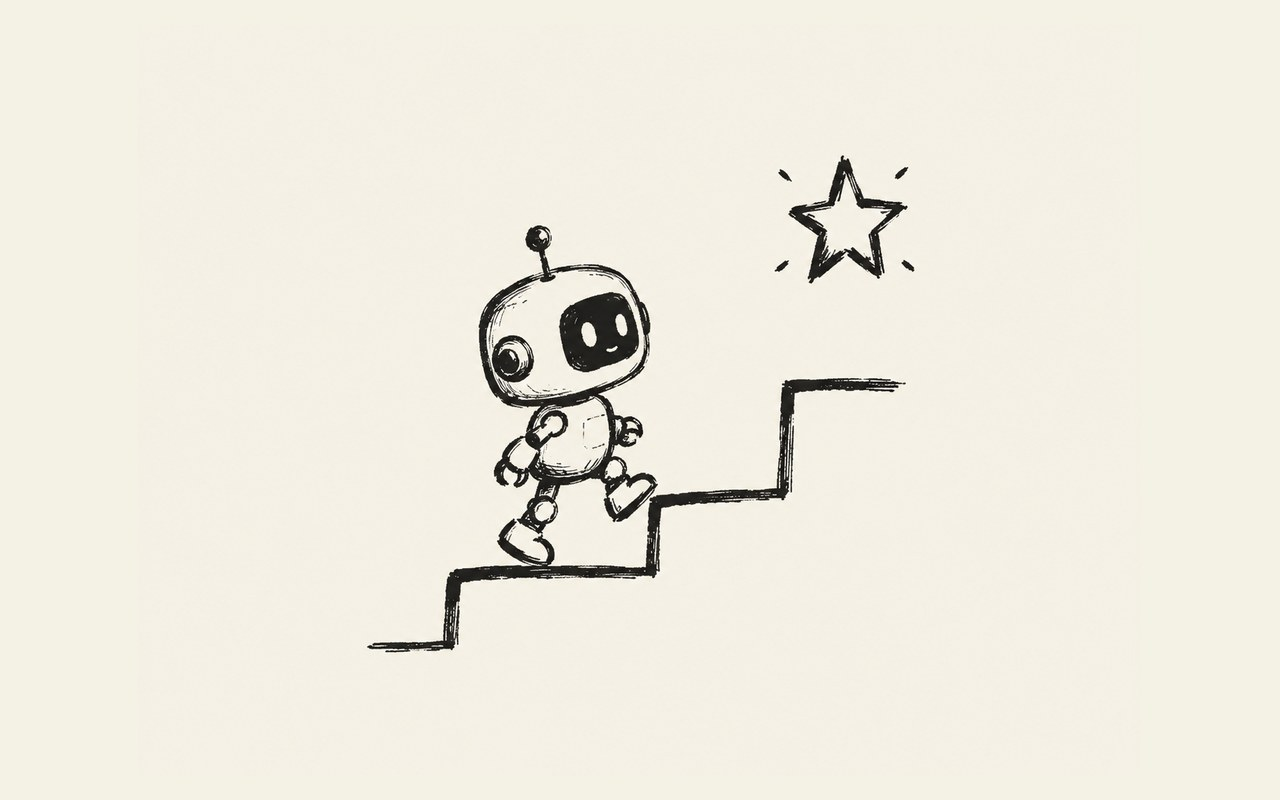
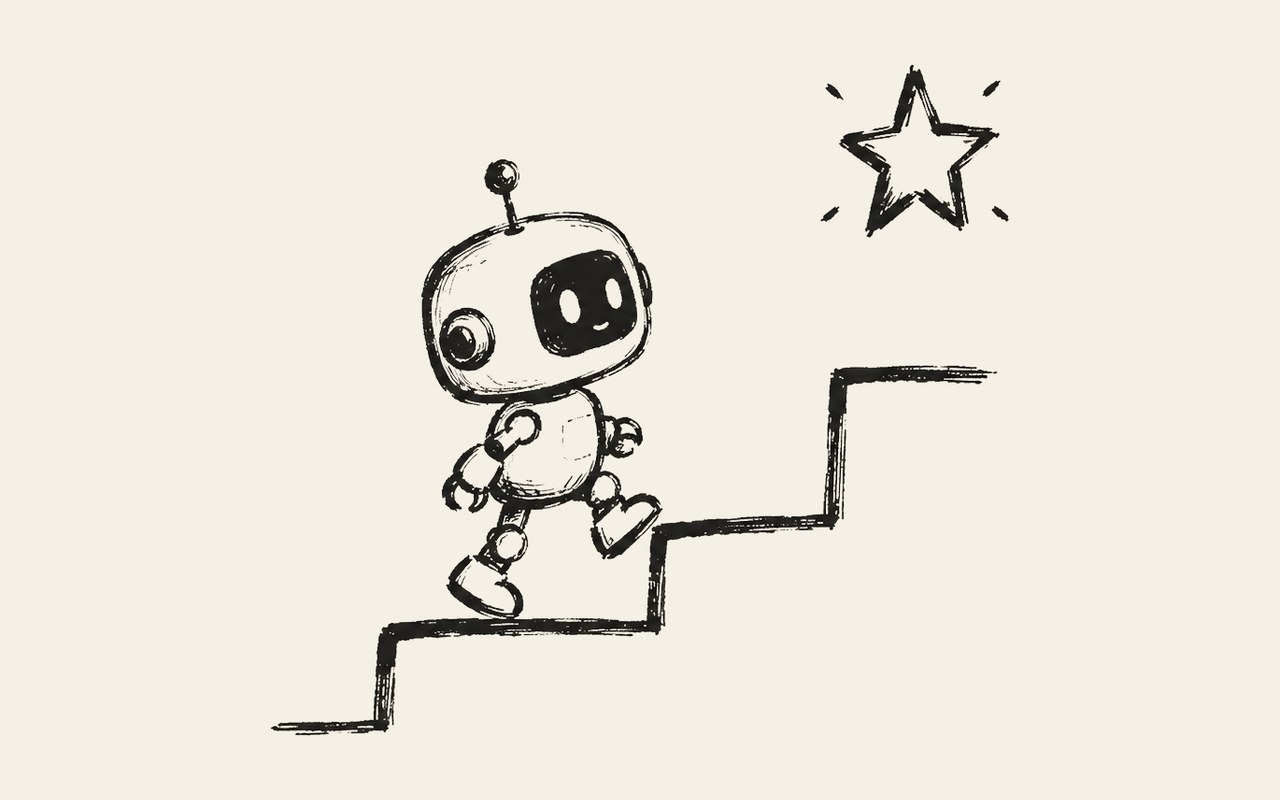
qcm covers: uniform background matching the section, ~20% subject zoom
Recomposited the 8 QCM illustrations onto an exact #f5f0e6 (var(--bg)) canvas
so every cover background matches the section, and scaled the subjects up
~20% for a tighter framing. Cover containers now use bg-[var(--bg)] too.

Changed region(s): [[0.2188, 0.1875, 0.7812, 0.9375], [0.5938, 0.0938, 0.7812, 0.3438], [0.625, 0.0938, 0.6562, 0.125]]

diff --git a/src/app/formations/page.tsx b/src/app/formations/page.tsx
@@ -170,7 +170,7 @@ export default function FormationsPage() {
                   className="group flex h-full flex-col overflow-hidden rounded-sm border border-[var(--rule)] bg-[var(--bg-2)] transition-colors hover:border-[var(--accent)]"
                 >
                   {/* Illustration QCM (trait noir sur crème) */}
-                  <div className="relative aspect-[16/9] overflow-hidden border-b border-[var(--rule)] bg-[#f4f1e5]">
+                  <div className="relative aspect-[16/9] overflow-hidden border-b border-[var(--rule)] bg-[var(--bg)]">
                     {/* eslint-disable-next-line @next/next/no-img-element */}
                     <img
                       src={q.cover}

diff --git a/src/components/QcmSlider.tsx b/src/components/QcmSlider.tsx
@@ -65,7 +65,7 @@ export function QcmSlider({
                 href={`/formations/quiz/${q.slug}`}
                 className="group flex h-full flex-col overflow-hidden rounded-sm border border-[var(--rule)] bg-[var(--bg-2)] transition-colors hover:border-[var(--accent)]"
               >
-                <div className="relative aspect-[16/10] overflow-hidden border-b border-[var(--rule)] bg-[#f4f1e5]">
+                <div className="relative aspect-[16/10] overflow-hidden border-b border-[var(--rule)] bg-[var(--bg)]">
                   {/* eslint-disable-next-line @next/next/no-img-element */}
                   <img
                     src={q.cover}

diff --git a/src/app/formations/dashboard/page.tsx b/src/app/formations/dashboard/page.tsx
@@ -83,7 +83,7 @@ export default async function DashboardOverview() {
               href={`/formations/quiz/${q.slug}`}
               className="group flex flex-col overflow-hidden rounded-sm border border-[var(--rule)] bg-[var(--bg-2)] transition-colors hover:border-[var(--accent)]"
             >
-              <div className="relative aspect-[16/9] overflow-hidden border-b border-[var(--rule)] bg-[#f4f1e5]">
+              <div className="relative aspect-[16/9] overflow-hidden border-b border-[var(--rule)] bg-[var(--bg)]">
                 {/* eslint-disable-next-line @next/next/no-img-element */}
                 <img
                   src={q.cover}

diff --git a/src/app/formations/quiz/page.tsx b/src/app/formations/quiz/page.tsx
@@ -16,7 +16,7 @@ function QuizCard({ quiz }: { quiz: Quiz }) {
         className="group flex h-full flex-col overflow-hidden rounded-sm border border-[var(--rule)] bg-[var(--bg-2)] transition-colors hover:border-[var(--accent)]"
       >
         {/* Illustration QCM (trait noir sur crème) */}
-        <div className="relative aspect-[16/10] overflow-hidden border-b border-[var(--rule)] bg-[#f4f1e5]">
+        <div className="relative aspect-[16/10] overflow-hidden border-b border-[var(--rule)] bg-[var(--bg)]">
           {/* eslint-disable-next-line @next/next/no-img-element */}
           <img
             src={quiz.cover}
